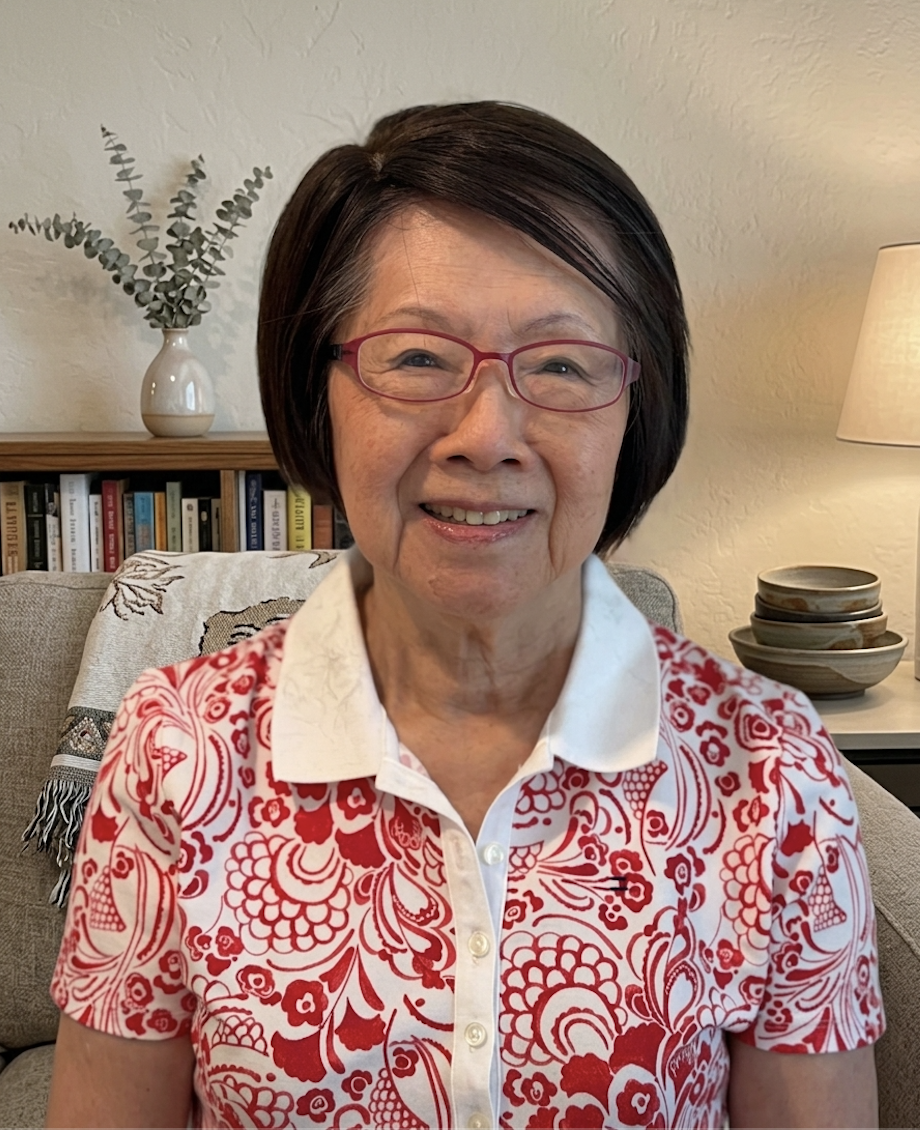
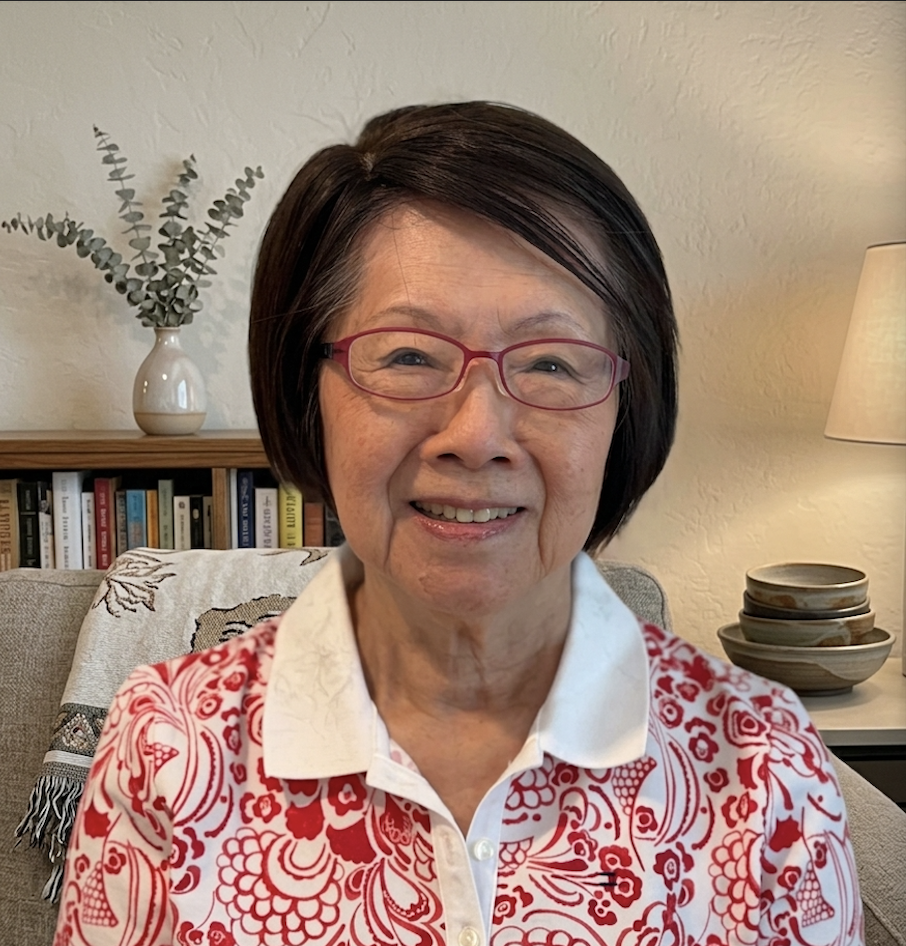
team update 2 members and new photos

diff --git a/team.html b/team.html
@@ -200,7 +200,7 @@
             <article class="team-member">
               <img
                 class="team-member-photo"
-                src="images/team/Katherine Tseng.jpg"
+                src="images/team/Katherine Tseng.png"
                 alt="Katherine Tseng"
               />
               <div class="team-member-copy">
@@ -341,7 +341,7 @@
             <article class="team-member">
               <img
                 class="team-member-photo"
-                src="images/team/Lily Wang.jpg"
+                src="images/team/Lily Wang.png"
                 alt="Lily Wang"
               />
               <div class="team-member-copy">
@@ -387,7 +387,7 @@
             <article class="team-member">
               <img
                 class="team-member-photo"
-                src="images/team/Jane Pan.jpg"
+                src="images/team/Jane Pan.png"
                 alt="Jane Pan"
               />
               <div class="team-member-copy">
@@ -545,6 +545,34 @@
                   California. I am glad to serve the university's faculty, students, alumni, and 
                   the community.
                 </p>
+              </div>
+            </article>
+            <article class="team-member">
+              <img
+                class="team-member-photo"
+                src="images/team/Judy Keng.png"
+                alt="Judy Keng"
+              />
+              <div class="team-member-copy">
+                <h2>
+                  Judy Keng <br />
+                  耿德馨
+                </h2>
+                <p class="team-member-title">B.S. in Statistics, NCCU</p>
+              </div>
+            </article>
+            <article class="team-member">
+              <img
+                class="team-member-photo"
+                src="images/team/Phyllis Huang.png"
+                alt="Phyllis Huang"
+              />
+              <div class="team-member-copy">
+                <h2>
+                  Phyllis Huang <br />
+                  黃佩莉
+                </h2>
+                <p class="team-member-title">B.C. in Accounting, NCCU</p>
               </div>
             </article>
           </div>

diff --git a/app.css b/app.css
@@ -1008,8 +1008,14 @@ body.zh-mode .event-detail-image.zh {
 
 @media (min-width: 1180px) {
   .team-group--others .team-panel {
-    grid-template-columns: repeat(4, minmax(0, 220px));
-    gap: 48px 40px;
+    grid-template-columns: repeat(5, minmax(0, 1fr));
+    gap: 48px 24px;
+  }
+
+  .team-group--others .team-member {
+    width: 100%;
+    max-width: 220px;
+    justify-self: center;
   }
 }
 
